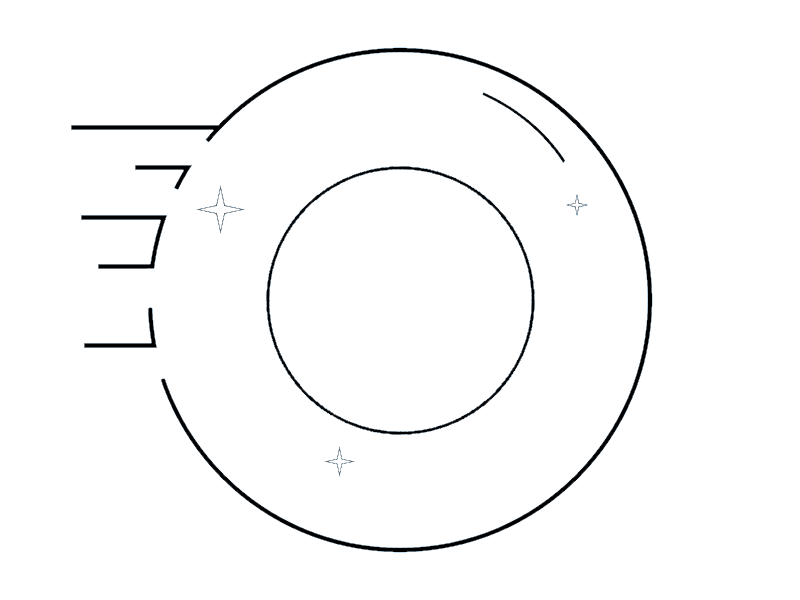
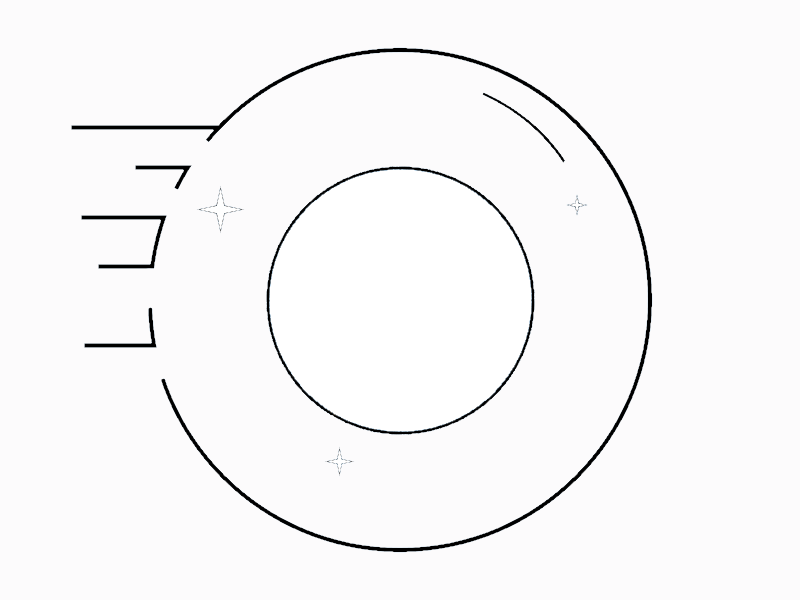
Funny little easter egg
Fixed footer and added Doughnut easter egg in function eatDonut <3

diff --git a/Insertefficientname.js b/Insertefficientname.js
@@ -1,3 +1,14 @@
+	var donutBite = 0
 function redirectTo(sUrl) {
-	window.location.href = (sUrl)
+	window.location.href = (sUrl);
 	}
+function eatDonut() {
+	donutBite += 1;
+	if (donutBite != 4) {
+		document.getElementById('donut').src = "Doughnut-eaten" + donutBite + ".png"
+	} else {
+		donutBite = 0
+		alert("Here's another one, made just for you <3")
+		document.getElementById('donut').src = "Doughnut.png"
+	}
+}

diff --git a/Peachpuff.css b/Peachpuff.css
@@ -1,3 +1,6 @@
+:root {
+		background-color: #FCFBFC;
+}
 a:hover {
 	color:green;
 	background: #ccffd3;
@@ -70,6 +73,7 @@ footer.inner {
 	float: right;
 	list-style-type: none;
 	margin-top: 30px;
+	margin-right: 600px;
 }
 .sans {
 	font-family: sans-serif;

diff --git a/index.html b/index.html
@@ -30,7 +30,7 @@
 	
 	<!-- Here is a doughnut -->
 	<div class="site">
-	<img src="Doughnut.png" alt="No donut :(" onclick="redirectTo('https://www.google.com')">
+	<img id="donut" src="Doughnut.png" alt="No donut :(" onclick="eatDonut()">
 	</div>
 </body>
 
